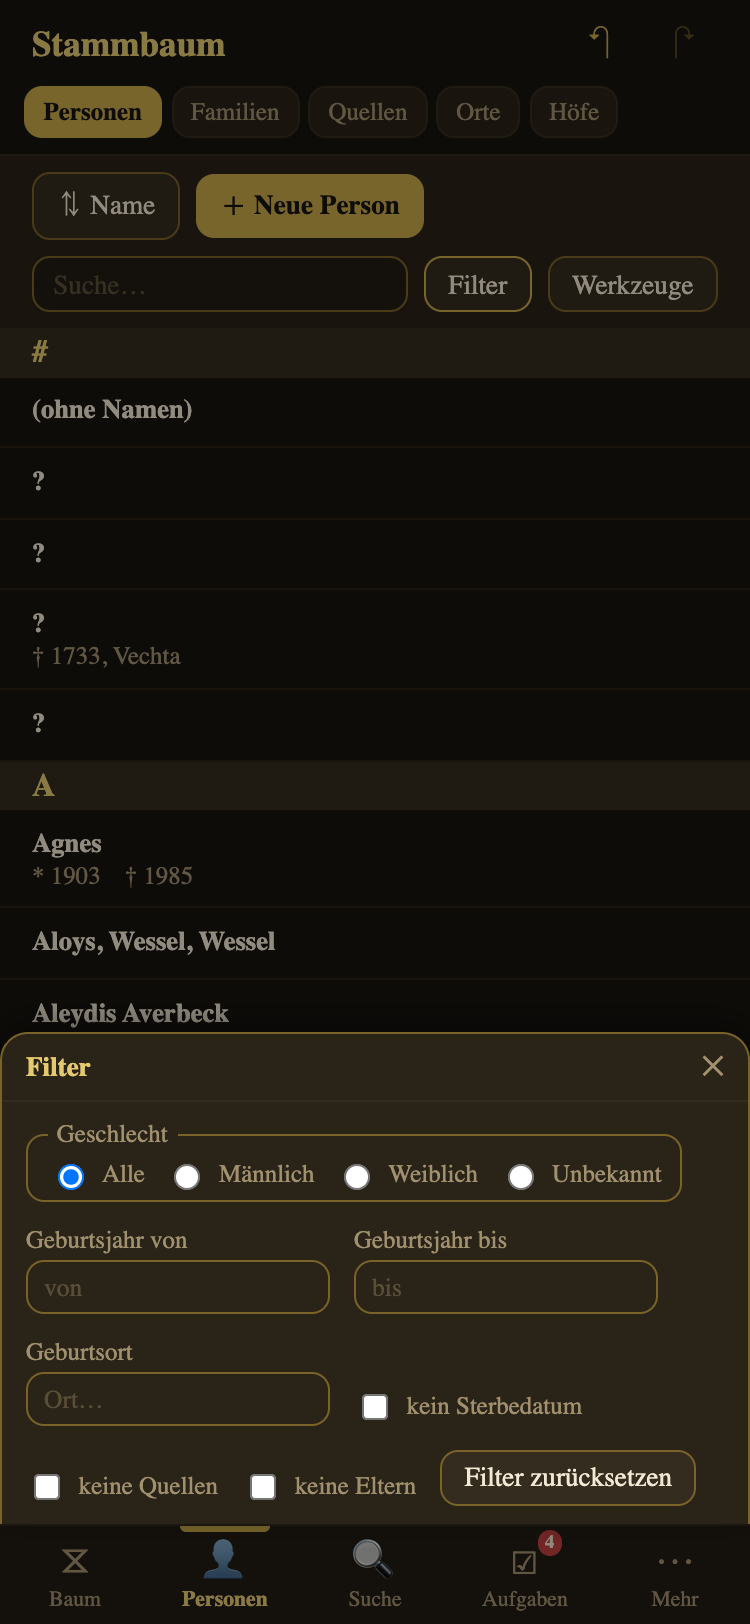
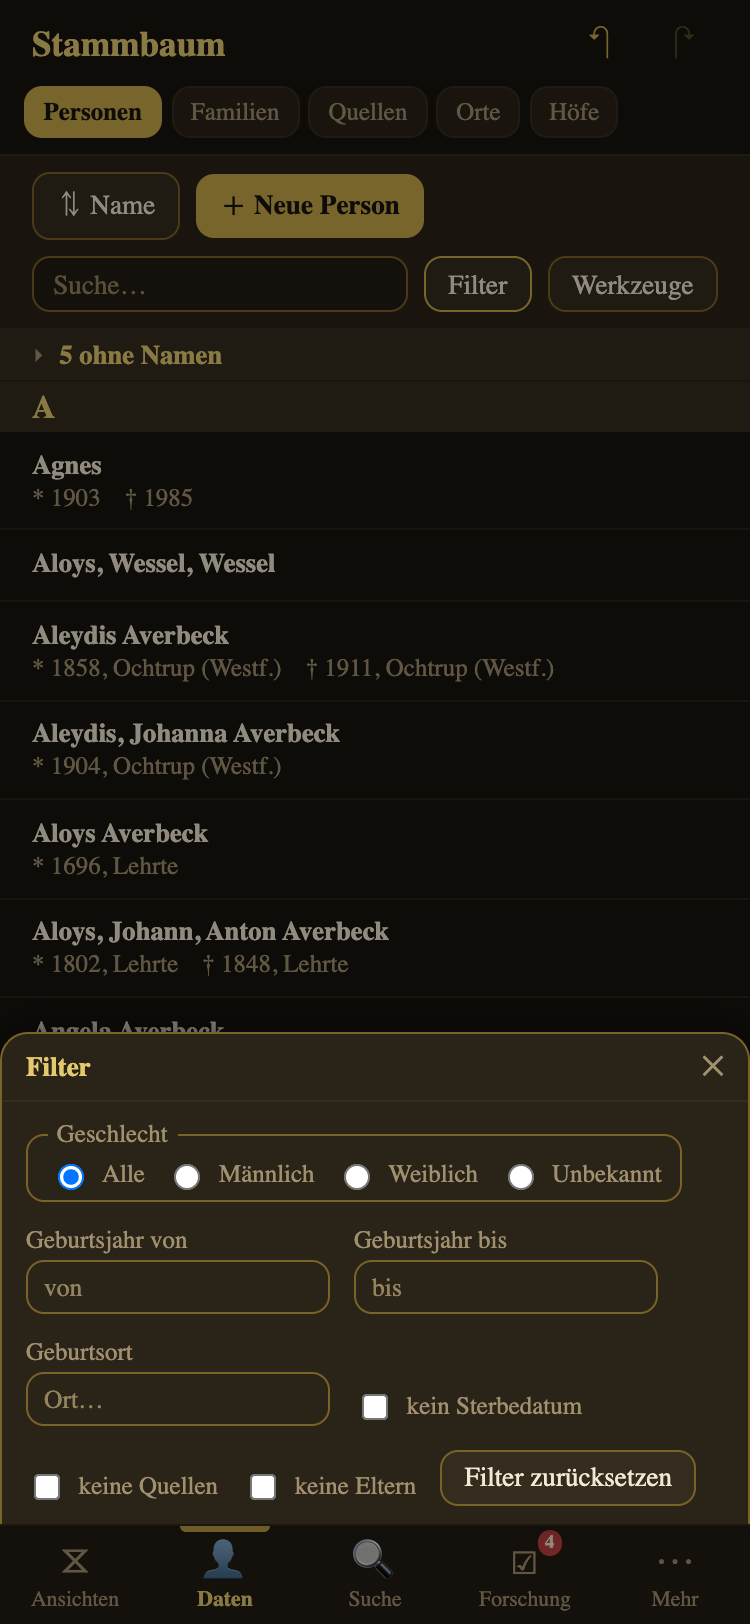
docs(handbuch): auf v9.2 aktualisiert — Nav-Namen, §-Marken, QUAY-Meter, Namenlose
Prosa nachgezogen (HANDBUCH.html): Bottom-Nav/Sidebar-Namen (Ansichten/Daten/
Forschung statt Baum/Personen/Aufgaben, ADR-v9-122), Quellen-Marke zeigt den
Kurznamen statt §N (ADR-v9-120), Beweiskraft als Punkte-Balken statt QUAY-Badge
(ADR-v9-118), "N ohne Namen"-Kollabierung (ADR-v9-121). Kontrast (ADR-v9-119)
ohne Prosa — erscheint in den neuen Screenshots.

Voller npm-run-handbuch-Lauf: alle 29 Screenshots neu (zugleich End-to-End-
Beleg, dass die data-slot-Reparatur der capture-Routine trägt), Version 9.2,
Changelog [9.2] automatisch aus den Commits ADR-v9-118…122.

diff --git a/HANDBUCH.html b/HANDBUCH.html
@@ -181,7 +181,7 @@
   <div class="tree-icon">🌳</div>
   <h1>STAMMBAUM</h1>
   <div class="subtitle">Genealogie-Editor für iPhone, iPad und Computer</div>
-  <div class="version">Benutzerhandbuch · Version 9.1 · Stand 2026-07-25</div>
+  <div class="version">Benutzerhandbuch · Version 9.2 · Stand 2026-07-25</div>
   <div class="tagline">
     Eine App, die Ihre Familienforschung verwaltet — ganz ohne Server, ohne Konto,
     offline nutzbar. Sie öffnet und schreibt GEDCOM- und GRAMPS-Dateien und bewahrt
@@ -323,10 +323,12 @@
 <h1 class="chapter" id="k3">3. Die Oberfläche verstehen</h1>
 
 <p class="lead">
-  Stammbaum ordnet alles nach <strong>Rollen</strong>: Es gibt <em>Entitäten</em>
-  (die fünf Datenarten), <em>Ansichten</em> (Diagramme und Statistik) und
-  <em>Arbeit</em> (Suche, Aufgaben, Datei). Auf dem Handy und auf dem Computer sieht
-  das leicht unterschiedlich aus, folgt aber überall demselben Register.
+  Stammbaum ordnet alles nach <strong>Rollen</strong>: Es gibt <em>Daten</em>
+  (die fünf Datenarten), <em>Ansichten</em> (Diagramme und Statistik),
+  <em>Forschung</em> (Dashboard, Aufgaben, Protokoll, Hypothesen) und <em>Arbeit</em>
+  (Suche, Datei). Auf dem Handy und auf dem Computer sieht das leicht unterschiedlich
+  aus, folgt aber überall demselben Register — und benennt dieselbe Gruppe auf beiden
+  Geräten gleich.
 </p>
 
 <div class="shot-row">
@@ -337,10 +339,10 @@
   <div class="prose">
     <h2>Auf dem Handy: Bottom-Navigation</h2>
     <p>
-      Unten liegen fünf Tasten: <strong>Baum</strong>, <strong>Personen</strong>,
-      <strong>Suche</strong>, <strong>Aufgaben</strong> und <strong>Mehr</strong>.
-      Die Reihe direkt darunter wechselt je nach Bereich — bei den Datenarten sind das
-      die Segmente <em>Personen · Familien · Quellen · Orte · Höfe</em>.
+      Unten liegen fünf Tasten: <strong>Ansichten</strong>, <strong>Daten</strong>,
+      <strong>Suche</strong>, <strong>Forschung</strong> und <strong>Mehr</strong>.
+      Die Reihe direkt darunter wechselt je nach Bereich — unter <strong>Daten</strong>
+      sind das die Segmente <em>Personen · Familien · Quellen · Orte · Höfe</em>.
     </p>
     <p>
       Unter <strong>Mehr</strong> finden Sie Karte, Zeitleiste, Statistik, das
@@ -353,7 +355,7 @@
 <p>
   Ab einer Fensterbreite von etwa 900&nbsp;Pixeln ersetzt eine <strong>Seitenleiste</strong>
   die untere Navigationsleiste. Sie zeigt alle Ziele nach Rolle gruppiert
-  (ENTITÄTEN · ANSICHTEN · FORSCHUNG · ARBEIT — die Gruppe <em>Forschung</em> bündelt
+  (DATEN · ANSICHTEN · FORSCHUNG · ARBEIT — die Gruppe <em>Forschung</em> bündelt
   Dashboard, Aufgaben, Protokoll und Hypothesen). Zusätzlich erscheint die
   <strong>Zwei-Spalten-Ansicht</strong>: links die Liste, rechts sofort die
   Detailansicht des gewählten Eintrags.
@@ -399,7 +401,11 @@
     <h2>Die Personenliste</h2>
     <p>
       Alle Personen alphabetisch, gruppiert nach Anfangsbuchstabe. Jede Zeile zeigt
-      Namen sowie Geburts- und Sterbedaten (mit Ort, sofern vorhanden).
+      Namen sowie Geburts- und Sterbedaten (mit Ort, sofern vorhanden). Personen ohne
+      verwertbaren Namen (leer oder nur „?") stehen ganz oben zu einer aufklappbaren
+      Zeile <strong>„N ohne Namen"</strong> zusammengefasst — so öffnet die Liste nicht
+      mit lauter Unbekannten; ein Tippen zeigt sie einzeln (bei aktiver Suche sind sie
+      automatisch aufgeklappt).
     </p>
     <ul>
       <li><strong>↕ Name</strong> schaltet die Sortierung um.</li>
@@ -449,7 +455,10 @@
           oder zum Ort-Steckbrief),</li>
       <li>einen <span class="badge g">◎</span>-Kreis, wenn Koordinaten vorliegen, und
           einen Pfeil <strong>↗</strong> zum Sprung auf die Karte,</li>
-      <li><span class="badge q">§9</span>-Marken für die verknüpften Quellen.</li>
+      <li><strong>Quellen-Marken</strong> zeigen den <em>Kurznamen der Quelle</em> — ein
+          Tippen öffnet die Quelle; ein kleiner Punkte-Balken daneben ist die
+          <em>Beweiskraft</em> (0–3 gefüllte Punkte). Nur eine namenlose Quelle erscheint
+          ersatzweise als Nummer <span class="badge q">§N</span>.</li>
     </ul>
     <p>
       Oben führen <strong>✎ Bearbeiten</strong> und <strong>⧖ Im Baum anzeigen</strong>
@@ -593,7 +602,8 @@
       <li>Titel, Verlag/Fundstelle (z.&nbsp;B. eine Matricula-Adresse),</li>
       <li><strong>Referenzen</strong> — welche Personen und Ereignisse diese Quelle
           zitieren,</li>
-      <li>je Zitat die Beweiskraft als <span class="badge g">QUAY 3</span>-Marke.</li>
+      <li>je Zitat die Beweiskraft als <span class="badge g">QUAY 3</span>-Marke mit
+          einem kleinen Punkte-Balken (0–3 gefüllte Punkte).</li>
     </ul>
     <h3>Evidenzbewertung</h3>
     <p>
@@ -624,7 +634,8 @@
     <li>Beim Ereignis die Quelle zuordnen — dieselbe Quelle kann viele Ereignisse
         belegen.</li>
     <li>Die <strong>Beweiskraft</strong> und die Evidenz-Achsen bewerten. Die Bewertung
-        erscheint als <span class="badge g">QUAY</span>-Marke an der Ereigniszeile.</li>
+        erscheint als Punkte-Balken (0–3 gefüllte Punkte) an der Quellen-Marke der
+        Ereigniszeile.</li>
   </ol>
 </div>
 
@@ -853,8 +864,8 @@
 <h1 class="chapter" id="k9">9. Diagramme: Baum, Karte, Zeitleiste</h1>
 
 <p class="lead">
-  Der Bereich <strong>Baum</strong> ist zugleich der Umschalter für die grafischen
-  Ansichten: <strong>Baum</strong>, <strong>Karte</strong> und <strong>Zeitleiste</strong>
+  Der Bereich <strong>Ansichten</strong> ist der Umschalter für die grafischen
+  Darstellungen: <strong>Baum</strong>, <strong>Karte</strong> und <strong>Zeitleiste</strong>
   (Story folgt). Jede Ansicht merkt sich ihre eigene Auswahl.
 </p>
 
@@ -972,7 +983,7 @@
 <p>
   Auf dem Computer bildet die Forschung eine eigene, beschriftete
   <strong>Seitenleisten-Gruppe „Forschung"</strong>; auf dem Handy erreichen Sie sie über
-  <strong>Aufgaben</strong> in der unteren Leiste, mit dem <strong>Dashboard an erster
+  <strong>Forschung</strong> in der unteren Leiste, mit dem <strong>Dashboard an erster
   Stelle</strong> der Segmentreihe.
 </p>
 
@@ -1339,8 +1350,8 @@
   <tr><th>Symbol</th><th>Bedeutung</th></tr>
   <tr><td><span class="badge g">◎</span></td><td>Für dieses Ereignis liegen Koordinaten vor.</td></tr>
   <tr><td>↗</td><td>Auf der Karte anzeigen.</td></tr>
-  <tr><td><span class="badge q">§3</span></td><td>Verknüpfte Quelle (die Nummer verweist auf den Quelleneintrag).</td></tr>
-  <tr><td><span class="badge g">QUAY 3</span></td><td>Beweiskraft eines Quellenbezugs (0–3).</td></tr>
+  <tr><td>Quellen-Marke</td><td>Verknüpfte Quelle — zeigt deren <strong>Kurznamen</strong> (nur bei namenloser Quelle die interne Nummer <span class="badge q">§N</span>); der kleine Punkte-Balken daneben ist die Beweiskraft (0–3 gefüllte Punkte).</td></tr>
+  <tr><td><span class="badge g">QUAY 3</span></td><td>Beweiskraft eines Quellenbezugs (0–3), als Punkte-Balken (so viele gefüllte Punkte wie die Stufe).</td></tr>
   <tr><td>✎</td><td>Bearbeiten.</td></tr>
   <tr><td>⧖</td><td>Im Baum anzeigen.</td></tr>
   <tr><td>↶ / ↷</td><td>Rückgängig / Wiederherstellen.</td></tr>
@@ -1350,10 +1361,10 @@
 <h2>Untere Navigation (Handy)</h2>
 <table class="ref">
   <tr><th>Tab</th><th>Führt zu</th></tr>
-  <tr><td>⧖ Baum</td><td>Grafische Ansichten (Baum, Karte, Zeitleiste).</td></tr>
-  <tr><td>👤 Personen</td><td>Datenarten (Personen, Familien, Quellen, Orte, Höfe).</td></tr>
+  <tr><td>⧖ Ansichten</td><td>Grafische Ansichten (Baum, Karte, Zeitleiste).</td></tr>
+  <tr><td>👤 Daten</td><td>Datenarten (Personen, Familien, Quellen, Orte, Höfe).</td></tr>
   <tr><td>🔍 Suche</td><td>Globale Suche über alle Datenarten.</td></tr>
-  <tr><td>☑ Aufgaben</td><td>Forschung: Aufgaben, Protokoll, Hypothesen, Dashboard.</td></tr>
+  <tr><td>☑ Forschung</td><td>Forschung: Aufgaben, Protokoll, Hypothesen, Dashboard.</td></tr>
   <tr><td>⋯ Mehr</td><td>Statistik, Datei-Menü, weitere Werkzeuge.</td></tr>
 </table>
 
@@ -1642,7 +1653,7 @@
 </p>
 
 <footer>
-  Stammbaum · Benutzerhandbuch Version 9.1 · Stand 2026-07-25<br>
+  Stammbaum · Benutzerhandbuch Version 9.2 · Stand 2026-07-25<br>
   Abbildungen aus der laufenden App mit einem Beispiel-Stammbaum.
 </footer>
 

diff --git a/HANDBUCH-CHANGELOG.md b/HANDBUCH-CHANGELOG.md
@@ -22,6 +22,18 @@ Personennamen (siehe [tools/handbuch/README.md](tools/handbuch/README.md)).
 
 ---
 
+## [9.2] — 2026-07-25
+
+_Automatisch aus den Code-Commits seit dem letzten Handbuch-Bau (`a2dfe15`…HEAD) erzeugt._
+
+- feat(ui): Handy und Desktop benennen Nav-Gruppen gleich (ADR-v9-122) (`c33ccc3`)
+- feat(ui): Namenlose als kollabierbare "N ohne Namen"-Zeile (ADR-v9-121) (`0fe156b`)
+- feat(ui): Quellen-Marke zeigt lesbaren Namen statt Datensatz-ID (ADR-v9-120) (`c75b80a`)
+- fix(a11y): Text-Token-Kontrast auf WCAG AA anheben (ADR-v9-119) (`c3033ea`)
+- feat(ui): QUAY-Beweiskraft als Meter statt Pillenfarbe (ADR-v9-118) (`0b30cc8`)
+
+---
+
 ## [9.1] — 2026-07-25
 
 - **Orts- & Hofkonzept ausführlich erklärt (Kapitel 7):** neue Abschnitte „Das Konzept:
